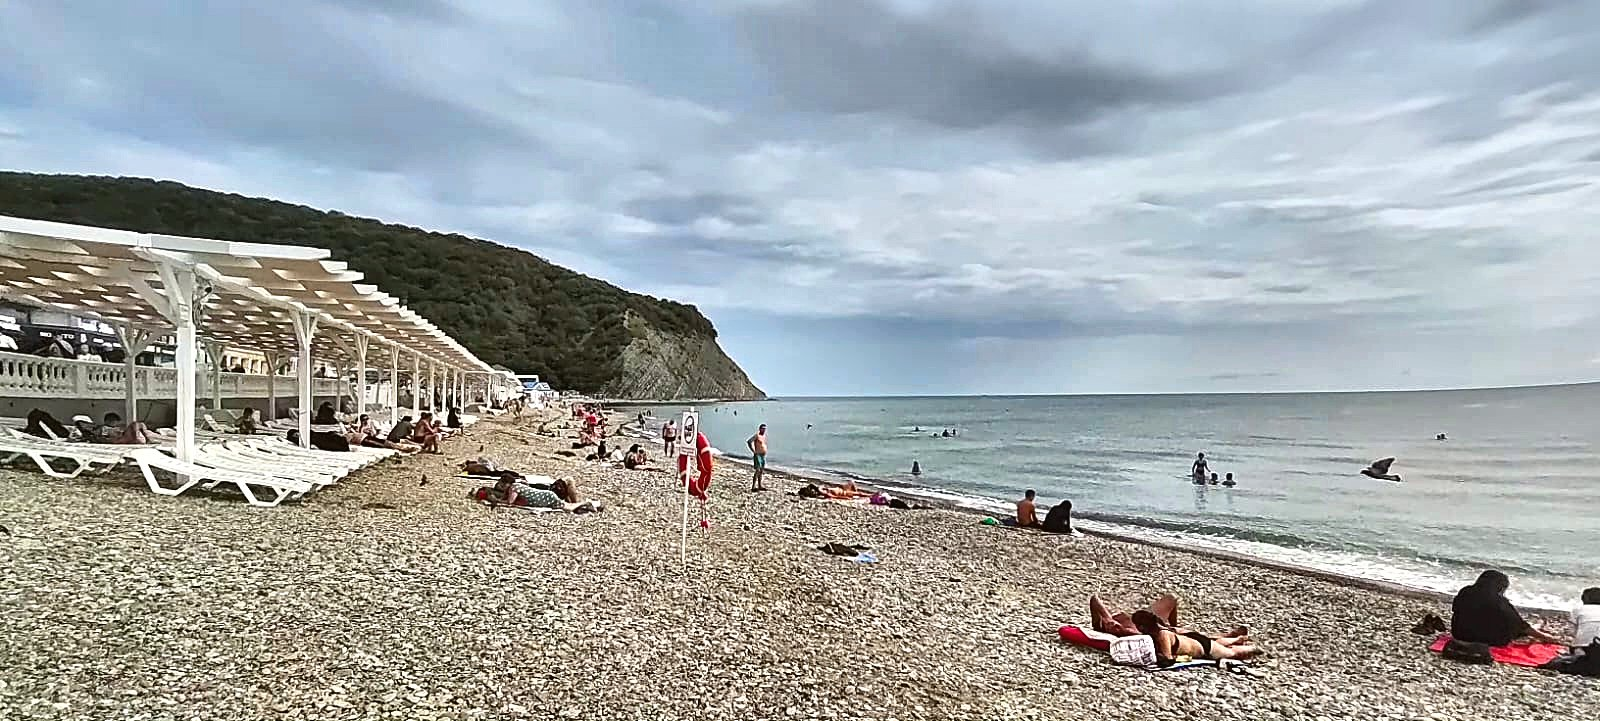
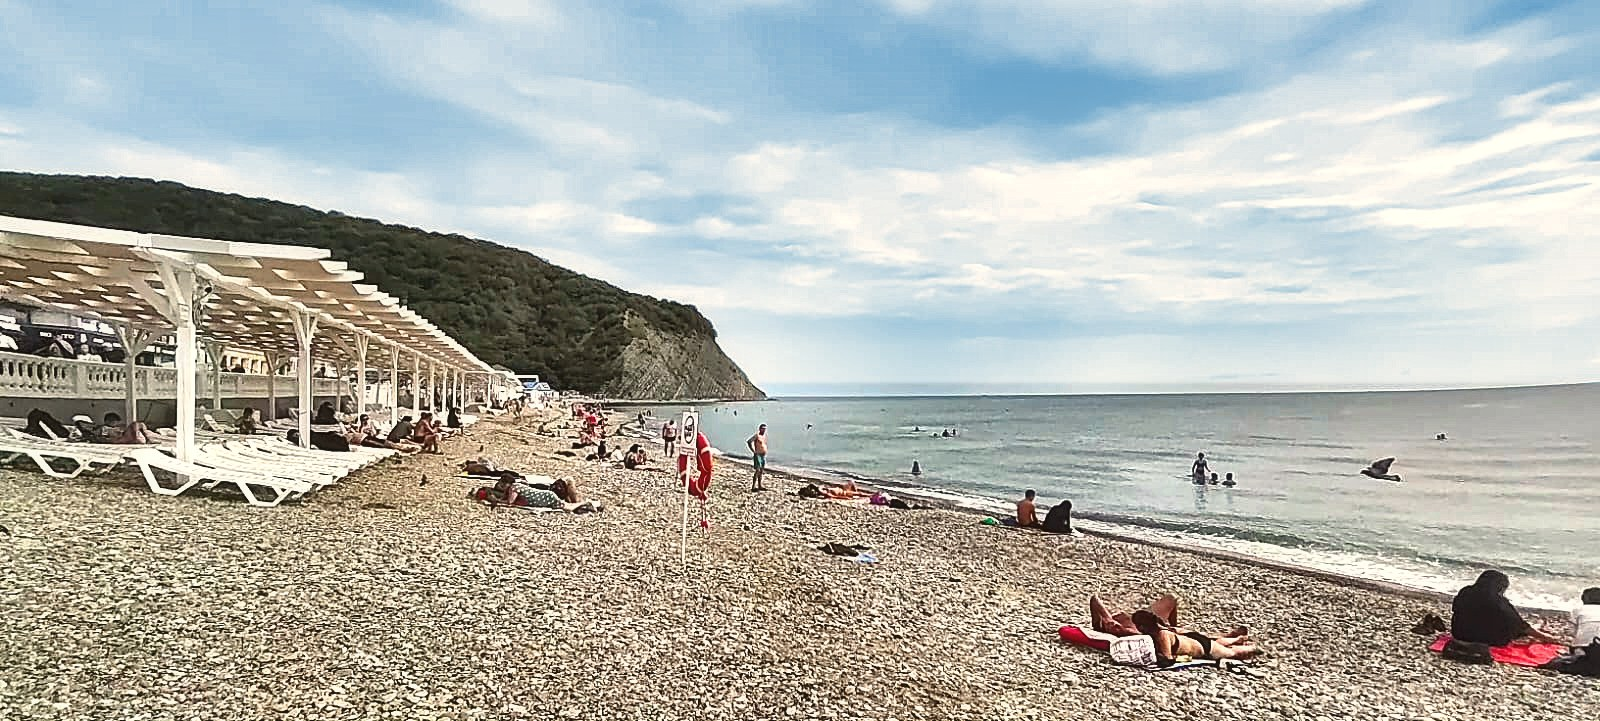
Солнечное фото горы Ёжик в визитной карточке Архипки
Claude-Session: https://claude.ai/code/session_01UQK2ugp9VBPEe6MNEprv9b

diff --git a/index.html b/index.html
@@ -93,7 +93,7 @@ a{color:var(--sea)}
 @media (max-width:820px){.intro{grid-template-columns:1fr;gap:28px}.intro-photo{max-width:380px;justify-self:center;width:100%}}
 @media (max-width:480px){.beach{grid-template-columns:1fr}}
 .ezhik-card{margin:4px 0;max-width:460px;background:#fff;border-radius:20px;padding:8px 8px 10px;box-shadow:var(--shadow);transform:rotate(-1deg)}
-.ezhik{display:block;width:100%;height:auto}
+.ezhik{display:block;width:100%;height:auto;border-radius:14px;aspect-ratio:16/9;object-fit:cover}
 .ezhik-card figcaption{font-family:var(--script);font-size:20px;color:#1F6FD1;text-align:center;padding-top:6px}
 /* season notice */
 .notice{display:flex;gap:16px;align-items:flex-start;background:var(--vine-soft);border:1px solid var(--line);border-radius:14px;padding:18px 22px;margin-bottom:56px}
@@ -344,34 +344,7 @@ footer .legal{flex-basis:100%;font-size:13px}
       <h2 class="rainbow">Архипка — жемчужинка Чёрного моря</h2>
       <p>Курортный посёлок Архипо-Осиповка, или просто Архипка, как ласково зовут его отдыхающие, раскинулся в живописной долине рек Вулан и Тешебс, в окружении гор и зелёных лесов.</p>
       <p>Главное украшение посёлка — набережная и пляж длиной почти в километр. Пляж галечный, дно песчаное, вход в море пологий. Поэтому Архипку любят все: от маленьких до стареньких.</p>
-      <figure class="ezhik-card"><svg class="ezhik" viewBox="0 0 400 220" role="img" aria-label="Рисунок: пляж Архипо-Осиповки на фоне горы Ёжик">
-  <defs>
-    <linearGradient id="ez-sky" x1="0" y1="0" x2="0" y2="1"><stop offset="0" stop-color="#7CCBF5"/><stop offset="1" stop-color="#E4F6FF"/></linearGradient>
-    <linearGradient id="ez-sea" x1="0" y1="0" x2="0" y2="1"><stop offset="0" stop-color="#1FA2C4"/><stop offset="1" stop-color="#46C9D9"/></linearGradient>
-    <linearGradient id="ez-hill" x1="0" y1="0" x2="0" y2="1"><stop offset="0" stop-color="#3E9A5A"/><stop offset="1" stop-color="#1E5E37"/></linearGradient>
-    <clipPath id="ez-clip"><rect width="400" height="220" rx="16"/></clipPath>
-  </defs>
-  <g clip-path="url(#ez-clip)">
-  <rect width="400" height="220" fill="url(#ez-sky)"/>
-  <circle cx="84" cy="52" r="20" fill="#FFE27A"/><circle cx="84" cy="52" r="30" fill="#FFE27A" opacity=".25"/>
-  <path d="M40 40q10-8 22 0q8-6 16 2q-18 4-38-2z" fill="#fff" opacity=".9"/>
-  <path d="M300 34q12-9 26 0q10-7 20 3q-24 4-46-3z" fill="#fff" opacity=".85"/>
-  <path d="M0 152 L0 118 Q40 96 90 112 Q130 90 170 118 L170 152Z" fill="#7FB89A" opacity=".75"/>
-  <path d="M340 152 Q360 104 400 100 L400 152Z" fill="#7FB89A" opacity=".75"/>
-  <path d="M150 152 L150 152.0 L154 133.1 L158 123.3 L162 115.6 L166 109.0 L170 103.2 L174 98.0 L178 93.3 L182 89.0 L186 85.2 L190 81.6 L194 78.3 L198 75.3 L202 72.5 L206 70.0 L210 67.7 L214 65.6 L218 63.7 L222 61.9 L226 60.4 L230 59.0 L234 57.8 L238 56.8 L242 55.9 L246 55.2 L250 54.7 L254 54.3 L258 54.1 L262 54.0 L266 54.1 L270 54.3 L274 54.7 L278 55.2 L282 55.9 L286 56.8 L290 57.8 L294 59.0 L298 60.4 L302 61.9 L306 63.7 L310 65.6 L314 67.7 L318 70.0 L322 72.5 L326 75.3 L330 78.3 L334 81.6 L338 85.2 L342 89.0 L346 93.3 L350 98.0 L354 103.2 L358 109.0 L362 115.6 L366 123.3 L370 133.1 L370 152Z" fill="url(#ez-hill)"/>
-  <path d="M150.0 155.0L153.0 148.1L156.0 130.9Z" fill="#2B7446"/><path d="M154.8 134.0L158.3 127.5L161.7 119.0Z" fill="#2B7446"/><path d="M160.3 121.6L163.6 113.4L166.9 110.5Z" fill="#2B7446"/><path d="M165.6 112.5L168.2 103.5L170.8 105.1Z" fill="#2B7446"/><path d="M169.8 106.5L172.3 97.9L174.9 99.9Z" fill="#2B7446"/><path d="M173.9 101.2L176.5 94.6L179.1 95.1Z" fill="#2B7446"/><path d="M178.0 96.3L181.2 85.3L184.3 89.8Z" fill="#2B7446"/><path d="M183.0 91.0L185.7 83.7L188.4 86.0Z" fill="#2B7446"/><path d="M187.3 86.9L190.8 75.2L194.2 81.1Z" fill="#2B7446"/><path d="M192.8 82.2L196.2 73.8L199.6 77.2Z" fill="#2B7446"/><path d="M198.2 78.1L202.2 71.9L206.2 72.9Z" fill="#2B7446"/><path d="M204.6 73.9L208.4 66.1L212.1 69.5Z" fill="#2B7446"/><path d="M210.6 70.3L213.3 63.6L216.1 67.6Z" fill="#2B7446"/><path d="M215.0 68.1L217.9 57.2L220.9 65.4Z" fill="#2B7446"/><path d="M219.7 65.9L222.5 56.4L225.3 63.7Z" fill="#2B7446"/><path d="M224.2 64.1L227.6 55.9L231.1 61.7Z" fill="#2B7446"/><path d="M229.7 62.1L233.0 55.8L236.3 60.2Z" fill="#2B7446"/><path d="M235.0 60.6L237.6 53.3L240.2 59.3Z" fill="#2B7446"/><path d="M239.1 59.6L242.7 51.0L246.2 58.2Z" fill="#2B7446"/><path d="M244.8 58.4L247.7 48.9L250.7 57.6Z" fill="#2B7446"/><path d="M249.5 57.8L252.7 50.0L255.9 57.2Z" fill="#2B7446"/><path d="M254.6 57.3L258.3 47.1L262.0 57.0Z" fill="#2B7446"/><path d="M260.5 57.0L263.4 47.6L266.3 57.1Z" fill="#2B7446"/><path d="M265.1 57.0L268.4 45.8L271.7 57.5Z" fill="#2B7446"/><path d="M270.4 57.3L274.0 49.6L277.6 58.2Z" fill="#2B7446"/><path d="M276.1 58.0L280.1 51.3L284.1 59.4Z" fill="#2B7446"/><path d="M282.5 59.0L285.6 48.5L288.7 60.5Z" fill="#2B7446"/><path d="M287.5 60.2L290.2 51.2L292.9 61.7Z" fill="#2B7446"/><path d="M291.8 61.4L294.4 51.4L297.0 63.0Z" fill="#2B7446"/><path d="M295.9 62.7L299.6 53.2L303.2 65.5Z" fill="#2B7446"/><path d="M301.8 64.9L305.6 57.0L309.4 68.3Z" fill="#2B7446"/><path d="M307.9 67.5L311.4 58.0L315.0 71.2Z" fill="#2B7446"/><path d="M313.5 70.4L316.9 61.7L320.3 74.4Z" fill="#2B7446"/><path d="M318.9 73.6L322.7 61.9L326.5 78.6Z" fill="#2B7446"/><path d="M324.9 77.6L328.2 67.6L331.4 82.4Z" fill="#2B7446"/><path d="M330.1 81.4L332.7 71.2L335.3 85.7Z" fill="#2B7446"/><path d="M334.2 84.8L337.7 72.8L341.2 91.2Z" fill="#2B7446"/><path d="M339.8 89.8L343.5 82.1L347.3 97.7Z" fill="#2B7446"/><path d="M345.8 96.0L348.8 86.0L351.9 103.4Z" fill="#2B7446"/><path d="M350.7 101.8L353.2 93.1L355.8 108.6Z" fill="#2B7446"/><path d="M354.7 107.2L357.5 100.5L360.2 115.5Z" fill="#2B7446"/><path d="M359.1 113.7L361.7 103.1L364.3 122.9Z" fill="#2B7446"/><path d="M363.3 120.9L366.0 113.4L368.7 132.5Z" fill="#2B7446"/><path d="M367.6 129.9L370.7 118.7L373.8 151.7Z" fill="#2B7446"/>
-  <path d="M180.3 122.0l2.3 -7.4l2.3 7.4z" fill="#3B8F55"/><path d="M320.7 139.0l1.9 -6.1l1.9 6.1z" fill="#4AA062"/><path d="M352.4 136.3l2.1 -6.6l2.1 6.6z" fill="#3B8F55"/><path d="M193.7 99.0l1.8 -5.9l1.8 5.9z" fill="#3B8F55"/><path d="M167.3 142.8l1.8 -5.7l1.8 5.7z" fill="#236B3E"/><path d="M165.8 131.3l2.1 -6.6l2.1 6.6z" fill="#236B3E"/><path d="M346.1 134.2l2.3 -7.3l2.3 7.3z" fill="#2F7D4A"/><path d="M251.8 137.2l2.9 -9.4l2.9 9.4z" fill="#4AA062"/><path d="M240.6 98.5l2.2 -7.1l2.2 7.1z" fill="#4AA062"/><path d="M176.8 107.5l1.8 -5.8l1.8 5.8z" fill="#3B8F55"/><path d="M185.9 126.9l1.7 -5.3l1.7 5.3z" fill="#3B8F55"/><path d="M267.0 143.7l2.4 -7.7l2.4 7.7z" fill="#2F7D4A"/><path d="M331.1 125.3l1.7 -5.5l1.7 5.5z" fill="#236B3E"/><path d="M346.5 130.5l2.2 -7.1l2.2 7.1z" fill="#2F7D4A"/><path d="M326.3 147.6l2.2 -7.0l2.2 7.0z" fill="#4AA062"/><path d="M224.3 82.1l2.6 -8.4l2.6 8.4z" fill="#236B3E"/><path d="M255.9 122.2l2.3 -7.3l2.3 7.3z" fill="#3B8F55"/><path d="M345.7 126.7l1.7 -5.5l1.7 5.5z" fill="#2F7D4A"/><path d="M309.0 96.8l2.5 -7.9l2.5 7.9z" fill="#2F7D4A"/><path d="M297.3 90.5l2.1 -6.6l2.1 6.6z" fill="#3B8F55"/><path d="M232.6 86.0l2.3 -7.4l2.3 7.4z" fill="#236B3E"/><path d="M285.9 116.6l2.7 -8.6l2.7 8.6z" fill="#3B8F55"/><path d="M318.2 135.7l2.6 -8.4l2.6 8.4z" fill="#3B8F55"/><path d="M203.0 114.5l2.6 -8.3l2.6 8.3z" fill="#2F7D4A"/><path d="M315.1 111.2l1.8 -5.7l1.8 5.7z" fill="#236B3E"/><path d="M250.0 142.8l3.0 -9.5l3.0 9.5z" fill="#236B3E"/><path d="M180.3 105.6l2.2 -7.1l2.2 7.1z" fill="#236B3E"/><path d="M203.8 122.9l2.9 -9.1l2.9 9.1z" fill="#2F7D4A"/><path d="M256.1 118.9l2.7 -8.6l2.7 8.6z" fill="#2F7D4A"/><path d="M323.6 91.3l2.1 -6.7l2.1 6.7z" fill="#3B8F55"/><path d="M255.8 79.1l2.7 -8.6l2.7 8.6z" fill="#236B3E"/><path d="M181.5 145.4l2.6 -8.3l2.6 8.3z" fill="#4AA062"/><path d="M241.3 143.6l2.6 -8.3l2.6 8.3z" fill="#3B8F55"/><path d="M353.7 113.7l2.4 -7.6l2.4 7.6z" fill="#4AA062"/><path d="M318.2 90.1l2.7 -8.8l2.7 8.8z" fill="#4AA062"/><path d="M289.9 95.9l2.3 -7.4l2.3 7.4z" fill="#3B8F55"/><path d="M169.1 141.3l2.6 -8.3l2.6 8.3z" fill="#2F7D4A"/><path d="M265.1 142.4l2.2 -6.9l2.2 6.9z" fill="#3B8F55"/><path d="M322.0 96.3l1.9 -6.0l1.9 6.0z" fill="#236B3E"/><path d="M260.2 128.2l2.0 -6.4l2.0 6.4z" fill="#4AA062"/><path d="M323.5 87.5l2.6 -8.4l2.6 8.4z" fill="#4AA062"/><path d="M290.9 133.2l2.3 -7.3l2.3 7.3z" fill="#3B8F55"/><path d="M266.0 108.0l1.5 -4.9l1.5 4.9z" fill="#4AA062"/><path d="M312.5 120.2l2.7 -8.5l2.7 8.5z" fill="#3B8F55"/><path d="M197.7 115.1l2.6 -8.3l2.6 8.3z" fill="#2F7D4A"/><path d="M226.9 110.5l2.3 -7.5l2.3 7.5z" fill="#2F7D4A"/><path d="M332.8 93.8l1.8 -5.7l1.8 5.7z" fill="#2F7D4A"/><path d="M311.7 112.8l2.3 -7.5l2.3 7.5z" fill="#2F7D4A"/><path d="M249.2 115.8l2.3 -7.2l2.3 7.2z" fill="#3B8F55"/><path d="M296.6 105.2l2.3 -7.4l2.3 7.4z" fill="#4AA062"/><path d="M261.5 84.8l2.3 -7.3l2.3 7.3z" fill="#236B3E"/><path d="M340.3 142.6l1.8 -5.8l1.8 5.8z" fill="#4AA062"/><path d="M191.1 97.7l2.2 -6.9l2.2 6.9z" fill="#2F7D4A"/><path d="M292.5 102.6l1.8 -5.8l1.8 5.8z" fill="#236B3E"/><path d="M313.9 140.8l1.7 -5.5l1.7 5.5z" fill="#236B3E"/><path d="M192.2 141.2l3.0 -9.4l3.0 9.4z" fill="#3B8F55"/><path d="M306.9 81.0l2.8 -9.0l2.8 9.0z" fill="#3B8F55"/><path d="M353.1 142.0l1.7 -5.6l1.7 5.6z" fill="#4AA062"/><path d="M353.9 127.1l2.1 -6.8l2.1 6.8z" fill="#236B3E"/><path d="M225.5 126.5l1.5 -4.9l1.5 4.9z" fill="#4AA062"/><path d="M248.7 66.4l2.0 -6.4l2.0 6.4z" fill="#236B3E"/><path d="M262.3 69.4l3.0 -9.5l3.0 9.5z" fill="#3B8F55"/><path d="M349.6 111.8l1.9 -6.1l1.9 6.1z" fill="#2F7D4A"/><path d="M337.1 104.1l2.6 -8.4l2.6 8.4z" fill="#4AA062"/><path d="M326.4 127.8l2.9 -9.3l2.9 9.3z" fill="#4AA062"/><path d="M193.4 143.2l2.4 -7.5l2.4 7.5z" fill="#236B3E"/><path d="M182.0 101.9l2.5 -8.1l2.5 8.1z" fill="#4AA062"/><path d="M335.1 107.5l1.5 -4.9l1.5 4.9z" fill="#2F7D4A"/><path d="M317.3 85.3l2.8 -8.9l2.8 8.9z" fill="#2F7D4A"/><path d="M215.2 83.9l1.5 -4.9l1.5 4.9z" fill="#4AA062"/><path d="M341.1 111.5l1.7 -5.4l1.7 5.4z" fill="#3B8F55"/><path d="M343.2 146.5l1.9 -6.1l1.9 6.1z" fill="#3B8F55"/><path d="M203.3 102.4l2.0 -6.3l2.0 6.3z" fill="#3B8F55"/><path d="M220.1 110.4l1.8 -5.7l1.8 5.7z" fill="#236B3E"/><path d="M317.7 147.6l1.6 -5.0l1.6 5.0z" fill="#2F7D4A"/><path d="M304.3 114.3l1.8 -5.7l1.8 5.7z" fill="#4AA062"/><path d="M211.7 108.6l2.5 -8.0l2.5 8.0z" fill="#4AA062"/><path d="M289.7 111.6l2.8 -9.1l2.8 9.1z" fill="#236B3E"/><path d="M295.7 146.6l2.0 -6.4l2.0 6.4z" fill="#3B8F55"/><path d="M241.9 94.5l1.6 -5.1l1.6 5.1z" fill="#3B8F55"/><path d="M167.7 136.2l2.8 -9.0l2.8 9.0z" fill="#4AA062"/><path d="M196.0 91.9l2.8 -8.8l2.8 8.8z" fill="#236B3E"/><path d="M278.8 122.6l1.6 -5.0l1.6 5.0z" fill="#3B8F55"/><path d="M194.9 114.5l1.9 -6.1l1.9 6.1z" fill="#236B3E"/><path d="M349.8 129.8l1.9 -6.0l1.9 6.0z" fill="#236B3E"/><path d="M206.4 92.3l2.0 -6.4l2.0 6.4z" fill="#2F7D4A"/><path d="M255.2 106.3l1.8 -5.8l1.8 5.8z" fill="#2F7D4A"/><path d="M182.3 139.0l1.7 -5.5l1.7 5.5z" fill="#2F7D4A"/><path d="M239.9 90.8l2.4 -7.8l2.4 7.8z" fill="#2F7D4A"/><path d="M276.3 108.9l2.6 -8.4l2.6 8.4z" fill="#4AA062"/><path d="M310.2 127.8l2.2 -7.2l2.2 7.2z" fill="#236B3E"/><path d="M302.6 121.0l1.6 -5.0l1.6 5.0z" fill="#4AA062"/><path d="M304.4 133.9l1.7 -5.5l1.7 5.5z" fill="#2F7D4A"/><path d="M322.0 120.8l2.8 -9.1l2.8 9.1z" fill="#3B8F55"/><path d="M181.2 101.9l2.5 -7.9l2.5 7.9z" fill="#2F7D4A"/><path d="M236.6 103.7l1.6 -5.0l1.6 5.0z" fill="#2F7D4A"/><path d="M284.0 121.9l2.2 -7.1l2.2 7.1z" fill="#2F7D4A"/><path d="M251.8 70.4l2.9 -9.3l2.9 9.3z" fill="#2F7D4A"/><path d="M290.3 73.2l2.6 -8.3l2.6 8.3z" fill="#236B3E"/><path d="M318.8 137.6l1.9 -5.9l1.9 5.9z" fill="#3B8F55"/><path d="M208.8 123.6l2.2 -7.0l2.2 7.0z" fill="#4AA062"/><path d="M179.6 143.8l1.9 -6.2l1.9 6.2z" fill="#2F7D4A"/><path d="M282.2 118.7l1.6 -5.2l1.6 5.2z" fill="#3B8F55"/><path d="M228.0 120.7l2.5 -8.1l2.5 8.1z" fill="#3B8F55"/><path d="M167.4 118.8l1.9 -6.1l1.9 6.1z" fill="#2F7D4A"/><path d="M296.5 122.7l1.9 -6.2l1.9 6.2z" fill="#236B3E"/><path d="M253.3 103.4l1.7 -5.4l1.7 5.4z" fill="#3B8F55"/><path d="M224.2 77.7l2.2 -7.1l2.2 7.1z" fill="#236B3E"/><path d="M252.2 133.0l3.0 -9.4l3.0 9.4z" fill="#4AA062"/><path d="M353.9 126.5l2.9 -9.2l2.9 9.2z" fill="#3B8F55"/><path d="M179.2 106.2l2.6 -8.4l2.6 8.4z" fill="#236B3E"/><path d="M346.0 109.2l2.7 -8.7l2.7 8.7z" fill="#236B3E"/><path d="M333.5 131.1l1.8 -5.9l1.8 5.9z" fill="#4AA062"/><path d="M239.9 79.4l2.9 -9.4l2.9 9.4z" fill="#4AA062"/><path d="M242.0 125.6l2.1 -6.8l2.1 6.8z" fill="#4AA062"/><path d="M225.1 135.7l1.5 -4.8l1.5 4.8z" fill="#236B3E"/><path d="M324.4 91.9l2.9 -9.2l2.9 9.2z" fill="#2F7D4A"/><path d="M336.3 109.4l2.1 -6.6l2.1 6.6z" fill="#4AA062"/><path d="M239.1 137.4l1.6 -5.2l1.6 5.2z" fill="#4AA062"/><path d="M308.6 137.3l1.9 -6.1l1.9 6.1z" fill="#2F7D4A"/><path d="M323.6 102.0l2.9 -9.3l2.9 9.3z" fill="#3B8F55"/><path d="M349.5 125.1l2.0 -6.3l2.0 6.3z" fill="#236B3E"/><path d="M314.2 107.8l1.5 -4.9l1.5 4.9z" fill="#4AA062"/><path d="M338.6 144.9l2.3 -7.4l2.3 7.4z" fill="#2F7D4A"/><path d="M174.4 137.2l2.2 -7.0l2.2 7.0z" fill="#3B8F55"/><path d="M287.5 90.3l1.6 -5.0l1.6 5.0z" fill="#3B8F55"/><path d="M197.4 111.5l1.9 -6.2l1.9 6.2z" fill="#236B3E"/><path d="M305.4 146.2l1.9 -6.0l1.9 6.0z" fill="#3B8F55"/><path d="M222.2 114.3l2.1 -6.7l2.1 6.7z" fill="#3B8F55"/><path d="M287.2 73.2l2.3 -7.2l2.3 7.2z" fill="#4AA062"/><path d="M269.6 102.2l2.0 -6.4l2.0 6.4z" fill="#4AA062"/><path d="M246.2 110.6l1.9 -6.0l1.9 6.0z" fill="#3B8F55"/><path d="M230.0 76.2l1.9 -5.9l1.9 5.9z" fill="#236B3E"/><path d="M318.8 94.1l1.5 -4.9l1.5 4.9z" fill="#4AA062"/><path d="M237.7 127.4l1.8 -5.8l1.8 5.8z" fill="#236B3E"/><path d="M229.3 74.2l1.9 -6.1l1.9 6.1z" fill="#236B3E"/><path d="M188.9 120.4l2.4 -7.8l2.4 7.8z" fill="#3B8F55"/><path d="M182.6 142.9l2.1 -6.6l2.1 6.6z" fill="#4AA062"/><path d="M247.0 91.0l2.7 -8.7l2.7 8.7z" fill="#2F7D4A"/><path d="M189.2 116.0l2.6 -8.5l2.6 8.5z" fill="#4AA062"/>
-  <rect y="150" width="400" height="44" fill="url(#ez-sea)"/>
-  <path d="M0 162q20-5 40 0t40 0 40 0 40 0 40 0 40 0 40 0 40 0 40 0 40 0" stroke="#BFF3F8" stroke-width="2" fill="none" opacity=".8"/>
-  <path d="M-20 174q20-5 40 0t40 0 40 0 40 0 40 0 40 0 40 0 40 0 40 0 40 0 40 0" stroke="#E6FBFD" stroke-width="2" fill="none" opacity=".7"/>
-  <path d="M0 186q25 6 50 0t50 0 50 0 50 0 50 0 50 0 50 0 50 0" stroke="#fff" stroke-width="4" fill="none" opacity=".9"/>
-  <rect y="189" width="400" height="31" fill="#D8D1C5"/>
-  <ellipse cx="387.3" cy="204.7" rx="2.2" ry="1.3" fill="#E6E0D6"/><ellipse cx="342.2" cy="217.3" rx="2.6" ry="1.6" fill="#C9C2B6"/><ellipse cx="89.5" cy="196.0" rx="4.4" ry="2.7" fill="#C9C2B6"/><ellipse cx="376.6" cy="210.8" rx="3.6" ry="2.2" fill="#9E958A"/><ellipse cx="34.0" cy="212.2" rx="2.0" ry="1.2" fill="#B5AC9E"/><ellipse cx="93.0" cy="215.9" rx="3.6" ry="2.2" fill="#DAD4C9"/><ellipse cx="385.0" cy="208.3" rx="3.3" ry="2.0" fill="#9E958A"/><ellipse cx="279.4" cy="194.9" rx="2.2" ry="1.3" fill="#E6E0D6"/><ellipse cx="377.4" cy="197.0" rx="2.7" ry="1.6" fill="#E6E0D6"/><ellipse cx="0.5" cy="206.0" rx="4.5" ry="2.7" fill="#DAD4C9"/><ellipse cx="383.6" cy="208.8" rx="4.2" ry="2.5" fill="#9E958A"/><ellipse cx="210.5" cy="206.2" rx="2.1" ry="1.2" fill="#9E958A"/><ellipse cx="281.9" cy="200.0" rx="2.1" ry="1.2" fill="#9E958A"/><ellipse cx="353.9" cy="208.8" rx="2.2" ry="1.3" fill="#B5AC9E"/><ellipse cx="266.9" cy="216.1" rx="2.6" ry="1.5" fill="#C9C2B6"/><ellipse cx="278.3" cy="210.7" rx="2.9" ry="1.7" fill="#9E958A"/><ellipse cx="79.2" cy="212.7" rx="3.8" ry="2.3" fill="#E6E0D6"/><ellipse cx="27.0" cy="204.9" rx="2.5" ry="1.5" fill="#B5AC9E"/><ellipse cx="92.3" cy="197.8" rx="3.9" ry="2.3" fill="#DAD4C9"/><ellipse cx="43.6" cy="208.2" rx="3.5" ry="2.1" fill="#B5AC9E"/><ellipse cx="194.0" cy="215.7" rx="2.1" ry="1.3" fill="#E6E0D6"/><ellipse cx="58.6" cy="202.2" rx="2.5" ry="1.5" fill="#E6E0D6"/><ellipse cx="56.8" cy="193.3" rx="2.2" ry="1.3" fill="#9E958A"/><ellipse cx="179.9" cy="210.5" rx="2.8" ry="1.7" fill="#C9C2B6"/><ellipse cx="399.0" cy="216.2" rx="2.8" ry="1.7" fill="#B5AC9E"/><ellipse cx="261.0" cy="205.6" rx="3.2" ry="1.9" fill="#DAD4C9"/><ellipse cx="265.8" cy="201.8" rx="2.9" ry="1.8" fill="#DAD4C9"/><ellipse cx="177.0" cy="194.8" rx="2.2" ry="1.3" fill="#C9C2B6"/><ellipse cx="140.6" cy="216.8" rx="2.3" ry="1.4" fill="#B5AC9E"/><ellipse cx="152.1" cy="212.0" rx="2.8" ry="1.7" fill="#9E958A"/><ellipse cx="35.1" cy="210.3" rx="2.5" ry="1.5" fill="#E6E0D6"/><ellipse cx="367.8" cy="197.0" rx="2.9" ry="1.7" fill="#9E958A"/><ellipse cx="12.1" cy="202.7" rx="4.0" ry="2.4" fill="#9E958A"/><ellipse cx="16.3" cy="192.9" rx="2.2" ry="1.3" fill="#C9C2B6"/><ellipse cx="102.8" cy="211.4" rx="4.2" ry="2.5" fill="#DAD4C9"/><ellipse cx="145.2" cy="200.7" rx="4.4" ry="2.6" fill="#C9C2B6"/><ellipse cx="104.9" cy="210.6" rx="2.8" ry="1.7" fill="#DAD4C9"/><ellipse cx="119.0" cy="210.8" rx="3.5" ry="2.1" fill="#C9C2B6"/><ellipse cx="9.7" cy="198.1" rx="3.2" ry="1.9" fill="#9E958A"/><ellipse cx="381.6" cy="202.0" rx="2.6" ry="1.6" fill="#9E958A"/><ellipse cx="325.9" cy="195.5" rx="3.2" ry="1.9" fill="#C9C2B6"/><ellipse cx="321.0" cy="211.2" rx="4.1" ry="2.4" fill="#B5AC9E"/><ellipse cx="242.9" cy="200.5" rx="2.8" ry="1.7" fill="#DAD4C9"/><ellipse cx="313.5" cy="207.5" rx="3.3" ry="2.0" fill="#9E958A"/><ellipse cx="301.2" cy="198.4" rx="2.2" ry="1.3" fill="#C9C2B6"/><ellipse cx="192.7" cy="206.2" rx="2.4" ry="1.4" fill="#9E958A"/><ellipse cx="353.4" cy="217.7" rx="2.7" ry="1.6" fill="#C9C2B6"/><ellipse cx="83.3" cy="202.9" rx="4.5" ry="2.7" fill="#9E958A"/><ellipse cx="69.3" cy="195.5" rx="3.2" ry="1.9" fill="#B5AC9E"/><ellipse cx="299.2" cy="214.0" rx="3.7" ry="2.2" fill="#C9C2B6"/><ellipse cx="311.9" cy="199.6" rx="2.7" ry="1.6" fill="#DAD4C9"/><ellipse cx="149.2" cy="211.2" rx="2.5" ry="1.5" fill="#B5AC9E"/><ellipse cx="74.3" cy="198.1" rx="2.7" ry="1.6" fill="#E6E0D6"/><ellipse cx="75.3" cy="193.7" rx="2.6" ry="1.6" fill="#B5AC9E"/><ellipse cx="202.9" cy="198.0" rx="4.0" ry="2.4" fill="#9E958A"/><ellipse cx="396.4" cy="194.7" rx="3.2" ry="1.9" fill="#B5AC9E"/><ellipse cx="336.2" cy="215.8" rx="2.1" ry="1.3" fill="#DAD4C9"/><ellipse cx="93.2" cy="193.3" rx="3.5" ry="2.1" fill="#E6E0D6"/><ellipse cx="77.7" cy="194.0" rx="3.3" ry="2.0" fill="#B5AC9E"/><ellipse cx="179.6" cy="198.8" rx="3.9" ry="2.4" fill="#C9C2B6"/><ellipse cx="42.3" cy="207.5" rx="3.5" ry="2.1" fill="#B5AC9E"/><ellipse cx="15.0" cy="200.8" rx="2.1" ry="1.3" fill="#DAD4C9"/><ellipse cx="15.3" cy="211.0" rx="4.3" ry="2.6" fill="#C9C2B6"/><ellipse cx="327.5" cy="202.6" rx="2.9" ry="1.8" fill="#E6E0D6"/><ellipse cx="124.9" cy="197.3" rx="4.0" ry="2.4" fill="#E6E0D6"/><ellipse cx="193.4" cy="202.6" rx="4.0" ry="2.4" fill="#E6E0D6"/><ellipse cx="61.8" cy="205.9" rx="3.6" ry="2.2" fill="#9E958A"/><ellipse cx="278.2" cy="202.7" rx="2.7" ry="1.6" fill="#DAD4C9"/><ellipse cx="167.1" cy="193.3" rx="3.9" ry="2.3" fill="#DAD4C9"/><ellipse cx="165.6" cy="192.5" rx="3.9" ry="2.3" fill="#DAD4C9"/><ellipse cx="257.8" cy="202.2" rx="3.0" ry="1.8" fill="#C9C2B6"/><ellipse cx="173.7" cy="196.1" rx="2.3" ry="1.4" fill="#C9C2B6"/><ellipse cx="162.5" cy="215.0" rx="3.2" ry="1.9" fill="#B5AC9E"/><ellipse cx="52.0" cy="193.3" rx="2.4" ry="1.4" fill="#9E958A"/><ellipse cx="35.6" cy="208.2" rx="2.9" ry="1.8" fill="#E6E0D6"/><ellipse cx="68.7" cy="201.0" rx="2.4" ry="1.4" fill="#B5AC9E"/><ellipse cx="370.2" cy="194.8" rx="3.2" ry="1.9" fill="#B5AC9E"/><ellipse cx="120.6" cy="213.8" rx="2.1" ry="1.3" fill="#9E958A"/><ellipse cx="125.8" cy="207.8" rx="3.6" ry="2.2" fill="#C9C2B6"/><ellipse cx="361.7" cy="208.1" rx="4.1" ry="2.4" fill="#B5AC9E"/><ellipse cx="256.1" cy="214.3" rx="3.6" ry="2.1" fill="#E6E0D6"/><ellipse cx="338.5" cy="213.6" rx="2.5" ry="1.5" fill="#B5AC9E"/><ellipse cx="16.7" cy="216.4" rx="2.4" ry="1.4" fill="#DAD4C9"/><ellipse cx="49.2" cy="198.4" rx="3.8" ry="2.3" fill="#B5AC9E"/><ellipse cx="16.4" cy="206.6" rx="3.9" ry="2.3" fill="#C9C2B6"/><ellipse cx="267.2" cy="200.4" rx="3.0" ry="1.8" fill="#9E958A"/><ellipse cx="220.0" cy="208.3" rx="2.8" ry="1.7" fill="#9E958A"/><ellipse cx="123.3" cy="198.5" rx="3.0" ry="1.8" fill="#DAD4C9"/><ellipse cx="178.7" cy="203.4" rx="2.1" ry="1.2" fill="#E6E0D6"/><ellipse cx="394.5" cy="204.1" rx="3.1" ry="1.9" fill="#E6E0D6"/><ellipse cx="312.0" cy="203.9" rx="2.4" ry="1.5" fill="#9E958A"/><ellipse cx="160.1" cy="193.7" rx="2.9" ry="1.7" fill="#DAD4C9"/><ellipse cx="36.7" cy="203.5" rx="3.3" ry="2.0" fill="#C9C2B6"/><ellipse cx="16.3" cy="195.4" rx="4.3" ry="2.6" fill="#DAD4C9"/><ellipse cx="311.1" cy="205.3" rx="2.1" ry="1.3" fill="#E6E0D6"/><ellipse cx="357.9" cy="209.0" rx="4.0" ry="2.4" fill="#C9C2B6"/><ellipse cx="342.8" cy="217.9" rx="3.8" ry="2.3" fill="#C9C2B6"/><ellipse cx="77.5" cy="217.5" rx="3.2" ry="1.9" fill="#B5AC9E"/><ellipse cx="274.5" cy="210.7" rx="2.6" ry="1.5" fill="#DAD4C9"/><ellipse cx="244.2" cy="198.6" rx="2.8" ry="1.7" fill="#E6E0D6"/><ellipse cx="110.0" cy="213.2" rx="2.4" ry="1.4" fill="#E6E0D6"/><ellipse cx="385.7" cy="204.5" rx="3.5" ry="2.1" fill="#E6E0D6"/><ellipse cx="202.4" cy="200.3" rx="2.1" ry="1.3" fill="#B5AC9E"/><ellipse cx="161.4" cy="208.6" rx="2.7" ry="1.6" fill="#DAD4C9"/><ellipse cx="358.2" cy="196.4" rx="4.0" ry="2.4" fill="#C9C2B6"/><ellipse cx="307.3" cy="193.3" rx="4.1" ry="2.5" fill="#9E958A"/><ellipse cx="222.1" cy="207.1" rx="4.2" ry="2.5" fill="#C9C2B6"/><ellipse cx="100.8" cy="205.9" rx="4.1" ry="2.5" fill="#DAD4C9"/><ellipse cx="105.9" cy="217.8" rx="3.4" ry="2.1" fill="#DAD4C9"/><ellipse cx="132.3" cy="194.1" rx="2.6" ry="1.5" fill="#E6E0D6"/><ellipse cx="297.4" cy="193.3" rx="4.0" ry="2.4" fill="#DAD4C9"/><ellipse cx="124.0" cy="217.1" rx="4.2" ry="2.5" fill="#DAD4C9"/><ellipse cx="293.2" cy="211.4" rx="2.6" ry="1.5" fill="#DAD4C9"/><ellipse cx="246.4" cy="203.2" rx="3.3" ry="2.0" fill="#C9C2B6"/><ellipse cx="52.8" cy="197.9" rx="3.6" ry="2.2" fill="#C9C2B6"/><ellipse cx="21.8" cy="206.7" rx="2.8" ry="1.7" fill="#E6E0D6"/><ellipse cx="142.9" cy="197.8" rx="3.5" ry="2.1" fill="#E6E0D6"/><ellipse cx="53.5" cy="201.5" rx="4.1" ry="2.4" fill="#B5AC9E"/><ellipse cx="53.9" cy="216.4" rx="2.6" ry="1.6" fill="#B5AC9E"/><ellipse cx="180.3" cy="193.7" rx="2.4" ry="1.4" fill="#DAD4C9"/><ellipse cx="160.8" cy="198.9" rx="2.0" ry="1.2" fill="#E6E0D6"/><ellipse cx="357.1" cy="207.5" rx="3.4" ry="2.1" fill="#E6E0D6"/><ellipse cx="374.9" cy="211.1" rx="2.6" ry="1.6" fill="#C9C2B6"/><ellipse cx="17.6" cy="205.8" rx="3.0" ry="1.8" fill="#B5AC9E"/><ellipse cx="63.7" cy="215.7" rx="2.3" ry="1.4" fill="#E6E0D6"/><ellipse cx="220.4" cy="216.5" rx="2.4" ry="1.4" fill="#B5AC9E"/><ellipse cx="207.3" cy="208.7" rx="3.6" ry="2.2" fill="#9E958A"/><ellipse cx="325.4" cy="196.5" rx="2.8" ry="1.7" fill="#DAD4C9"/><ellipse cx="250.4" cy="217.8" rx="3.8" ry="2.3" fill="#9E958A"/><ellipse cx="286.2" cy="192.2" rx="4.1" ry="2.5" fill="#9E958A"/><ellipse cx="32.2" cy="209.0" rx="2.4" ry="1.5" fill="#C9C2B6"/><ellipse cx="104.6" cy="208.7" rx="2.3" ry="1.4" fill="#DAD4C9"/><ellipse cx="284.7" cy="198.9" rx="3.4" ry="2.0" fill="#9E958A"/><ellipse cx="274.3" cy="215.8" rx="4.4" ry="2.7" fill="#DAD4C9"/><ellipse cx="256.8" cy="217.1" rx="2.5" ry="1.5" fill="#E6E0D6"/><ellipse cx="6.1" cy="198.8" rx="2.6" ry="1.6" fill="#B5AC9E"/><ellipse cx="377.9" cy="211.4" rx="2.8" ry="1.7" fill="#9E958A"/><ellipse cx="131.4" cy="198.2" rx="4.3" ry="2.6" fill="#E6E0D6"/><ellipse cx="187.8" cy="213.8" rx="3.7" ry="2.2" fill="#C9C2B6"/><ellipse cx="174.9" cy="210.8" rx="3.4" ry="2.1" fill="#DAD4C9"/><ellipse cx="315.7" cy="202.2" rx="3.5" ry="2.1" fill="#E6E0D6"/><ellipse cx="364.3" cy="195.8" rx="2.1" ry="1.2" fill="#C9C2B6"/><ellipse cx="248.8" cy="196.2" rx="4.4" ry="2.7" fill="#C9C2B6"/><ellipse cx="12.3" cy="195.6" rx="3.6" ry="2.2" fill="#C9C2B6"/><ellipse cx="278.8" cy="211.2" rx="2.2" ry="1.3" fill="#E6E0D6"/><ellipse cx="304.7" cy="197.2" rx="4.4" ry="2.6" fill="#E6E0D6"/><ellipse cx="356.5" cy="193.7" rx="4.2" ry="2.5" fill="#9E958A"/><ellipse cx="42.8" cy="197.3" rx="2.3" ry="1.4" fill="#C9C2B6"/><ellipse cx="379.7" cy="215.7" rx="3.9" ry="2.3" fill="#C9C2B6"/><ellipse cx="330.0" cy="208.4" rx="2.7" ry="1.6" fill="#C9C2B6"/><ellipse cx="53.1" cy="212.6" rx="3.6" ry="2.2" fill="#DAD4C9"/><ellipse cx="127.7" cy="203.0" rx="2.1" ry="1.2" fill="#DAD4C9"/><ellipse cx="372.0" cy="193.3" rx="3.9" ry="2.3" fill="#DAD4C9"/><ellipse cx="307.7" cy="207.7" rx="3.2" ry="1.9" fill="#DAD4C9"/><ellipse cx="247.3" cy="192.8" rx="3.0" ry="1.8" fill="#9E958A"/><ellipse cx="207.4" cy="194.6" rx="3.2" ry="1.9" fill="#C9C2B6"/><ellipse cx="215.2" cy="197.6" rx="4.2" ry="2.5" fill="#C9C2B6"/><ellipse cx="229.8" cy="199.5" rx="3.1" ry="1.9" fill="#E6E0D6"/><ellipse cx="80.8" cy="211.8" rx="4.4" ry="2.7" fill="#C9C2B6"/><ellipse cx="139.1" cy="194.5" rx="3.7" ry="2.2" fill="#B5AC9E"/>
-  <path d="M308 206 L318 150" stroke="#8A5A3B" stroke-width="3"/>
-  <path d="M290 158 Q318 128 348 146 Z" fill="#FF5E62"/><path d="M304 151 Q318 128 332 149 Z" fill="#FFD452"/>
-  <rect x="330" y="198" width="30" height="8" rx="3" fill="#1FC8B5"/>
-  </g>
-</svg><figcaption>Гора Ёжик — визитная карточка Архипки</figcaption></figure>
+      <figure class="ezhik-card"><img class="ezhik" src="img/ezhik-photo.jpg" alt="Пляж Архипо-Осиповки и гора Ёжик" loading="lazy"><figcaption>Гора Ёжик — визитная карточка Архипки</figcaption></figure>
       <p class="invite">А всего в пяти минутах ходьбы от центра пляжа вас ждёт гостевой дом «Итальянский дворик». Приезжайте к нам отдыхать: уютно, спокойно и по-домашнему.</p>
       <ul class="beach">
         <li><b>Пляж</b><span>протяжённостью 1 км</span></li>
